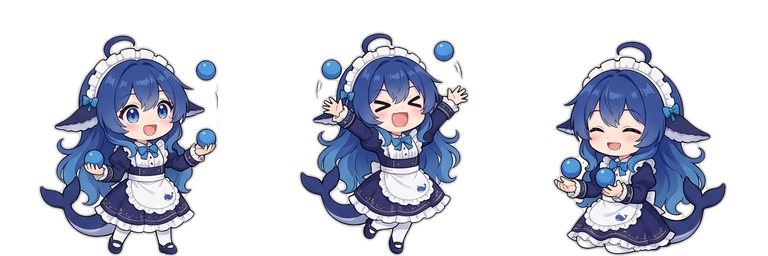
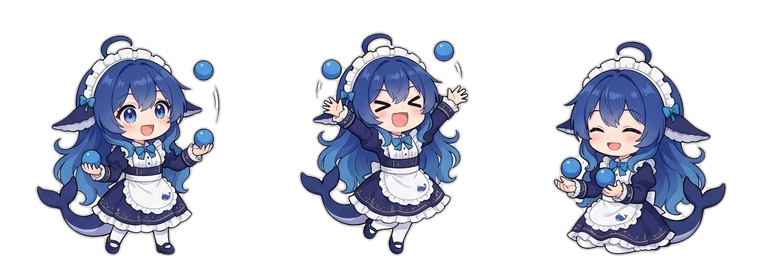
fix(assets): 装饰件附着加 bbox 相交规则——celebrate 左侧星星不再被切
- 根因：frame2 左侧星星与角色 bbox 部分重叠（11px），但质心距离超附着阈值 90 → 未吸收，裁剪切掉一半
- 修复：附着规则两阶段——①与角色 bbox 相交（>1px）→ 整体并入该帧；②否则质心最近且 < deco_margin
- celebrate 帧2/3 左缘外扩（x 28 起，星星完整并入），帧宽 195-200px 一致化
- 验证：web 无崩溃、assets 200、冒烟 OK

Changed region(s): [[0.0312, 0.125, 0.3125, 1.0]]

diff --git a/scripts/slice-sheet.py b/scripts/slice-sheet.py
@@ -387,13 +387,27 @@ def build_sheet_from_comps(band, comps, state_centers, my_center, size, row_y0, 
     if not my_frames:
         return None, 0
     attach = [[] for _ in my_frames]
-    for a, bb, (cx, cy) in comps:
-        if a > max_area * 0.2:
+    decos = [(a, bb, (cx, cy)) for a, bb, (cx, cy) in comps if a <= max_area * 0.2]
+    for a, bb, (cx, cy) in decos:
+        # 1) 与某帧角色 bbox 相交（部分重叠的星星——只取角色 bbox 会切一半）→ 整体并入该帧
+        hit = None
+        for i, (_, cbb, _) in enumerate(my_frames):
+            ix = min(bb[2], cbb[2]) - max(bb[0], cbb[0])
+            iy = min(bb[3], cbb[3]) - max(bb[1], cbb[1])
+            if ix > 1 and iy > 1:
+                hit = i
+                break
+        if hit is not None:
+            attach[hit].append(bb)
             continue
-        dists = [(abs(f[2][0] - cx) + abs(f[2][1] - cy), i) for i, f in enumerate(my_frames)]
-        d, i = min(dists)
-        if d < deco_margin:
-            attach[i].append(bb)
+        # 2) 否则质心距离最近且 < deco_margin → 并入
+        best_i, best_d = None, float('inf')
+        for i, (_, cbb, _) in enumerate(my_frames):
+            d = abs((cbb[0] + cbb[2]) / 2 - cx) + abs((cbb[1] + cbb[3]) / 2 - cy)
+            if d < best_d:
+                best_d, best_i = d, i
+        if best_i is not None and best_d < deco_margin:
+            attach[best_i].append(bb)
     hmax = max(bb[3] - bb[1] for _, bb, _ in my_frames)
     if hmax <= 0:
         return None, 0
